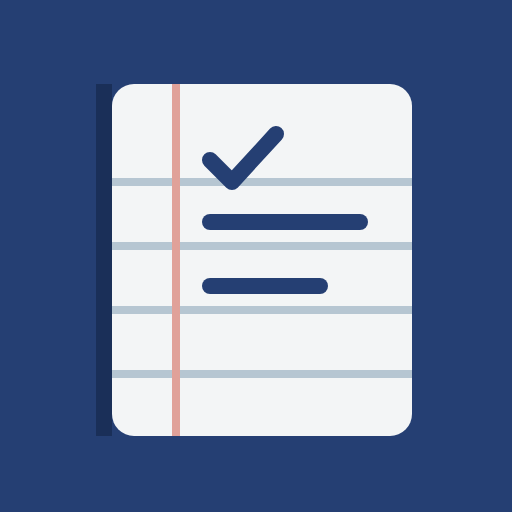
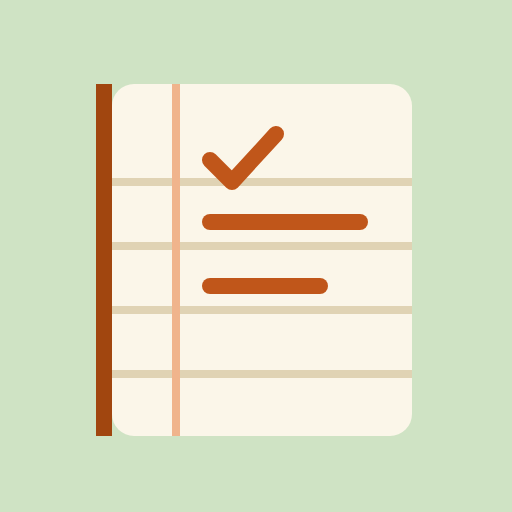
記事簿改為淺綠＋橘色基調、記事欄位米白色，固定淺色模式

diff --git a/memo/index.html b/memo/index.html
@@ -5,8 +5,8 @@
 <meta name="viewport" content="width=device-width, initial-scale=1.0, viewport-fit=cover">
 <title>記事簿</title>
 <meta name="robots" content="noindex">
-<meta name="theme-color" content="#f3f5f6" media="(prefers-color-scheme: light)">
-<meta name="theme-color" content="#12151b" media="(prefers-color-scheme: dark)">
+<meta name="theme-color" content="#e6f0df">
+<meta name="color-scheme" content="light only">
 <meta name="apple-mobile-web-app-capable" content="yes">
 <meta name="mobile-web-app-capable" content="yes">
 <meta name="apple-mobile-web-app-title" content="記事簿">
@@ -19,27 +19,30 @@
 <link href="https://fonts.googleapis.com/css2?family=LXGW+WenKai+TC:wght@400;700&family=Noto+Sans+TC:wght@400;500;700&display=swap" rel="stylesheet">
 <style>
   :root {
-    --paper: #f3f5f6;
-    --paper-raised: #fbfcfc;
-    --rule: #cfdbe4;
-    --rule-strong: #b6c6d2;
-    --margin-line: #e0a199;
-    --ink: #1d2740;
-    --ink-soft: #4b566c;
-    --ink-faint: #616c80;
-    --ink-done: #7c8597;
-    --accent: #253f73;
-    --accent-deep: #1a2f58;
-    --accent-wash: #e1e8f3;
-    --on-accent: #fbfcfc;
-    --overdue: #ad3428;
-    --overdue-wash: #f6e4e1;
-    --soon: #85570b;
-    --soon-wash: #f6ecd6;
-    --toast: #1d2740;
-    --on-toast: #f3f5f6;
-    --toast-action: #b9cbef;
-    --lift: 0 1px 2px rgba(29, 39, 64, 0.05), 0 10px 24px -14px rgba(29, 39, 64, 0.22);
+    --page: #e6f0df;
+    --paper: #fffdf8;
+    --paper-raised: #fbf6e9;
+    --rule: #e6dcc4;
+    --rule-strong: #d3c7aa;
+    --margin-line: #f0b48c;
+    --ink: #2a3326;
+    --ink-soft: #505b4a;
+    --ink-faint: #646d5c;
+    --ink-done: #8b917f;
+    --accent: #c0561a;
+    --accent-deep: #a1460f;
+    --accent-wash: #fbe6d4;
+    --on-accent: #fffdf8;
+    --green: #3f6b3a;
+    --green-wash: #e2eedb;
+    --overdue: #b3261e;
+    --overdue-wash: #f8e1dd;
+    --soon: #9a430c;
+    --soon-wash: #fde3cc;
+    --toast: #2f4a2c;
+    --on-toast: #f6f9f3;
+    --toast-action: #ffc89e;
+    --lift: 0 1px 2px rgba(42, 51, 38, 0.05), 0 10px 24px -14px rgba(42, 51, 38, 0.22);
 
     --hand: "LXGW WenKai TC", "Noto Sans TC", system-ui, sans-serif;
     --sans: "Noto Sans TC", system-ui, -apple-system, sans-serif;
@@ -50,40 +53,13 @@
     color-scheme: light;
   }
 
-  @media (prefers-color-scheme: dark) {
-    :root {
-      --paper: #12151b;
-      --paper-raised: #1a1e26;
-      --rule: #252c38;
-      --rule-strong: #343d4c;
-      --margin-line: #6e3a34;
-      --ink: #e2e7ef;
-      --ink-soft: #b0b9c8;
-      --ink-faint: #8f99aa;
-      --ink-done: #7f8999;
-      --accent: #a9bfe8;
-      --accent-deep: #c4d4f1;
-      --accent-wash: #1f2a40;
-      --on-accent: #12151b;
-      --overdue: #f19285;
-      --overdue-wash: #3a1f1c;
-      --soon: #e4bb6b;
-      --soon-wash: #33291a;
-      --toast: #e2e7ef;
-      --on-toast: #12151b;
-      --toast-action: #253f73;
-      --lift: 0 1px 2px rgba(0, 0, 0, 0.3), 0 12px 28px -14px rgba(0, 0, 0, 0.6);
-      color-scheme: dark;
-    }
-  }
-
   *, *::before, *::after { box-sizing: border-box; }
-  ::selection { background: var(--accent-wash); color: var(--ink); }
+  ::selection { background: var(--soon-wash); color: var(--ink); }
 
   html { -webkit-text-size-adjust: 100%; }
   body {
     margin: 0;
-    background: var(--paper);
+    background: var(--page);
     color: var(--ink);
     font-family: var(--sans);
     font-size: 15px;
@@ -291,12 +267,21 @@
   .hint:empty { display: none; }
 
   /* ---------- Ledger ---------- */
+  .sheet {
+    margin-top: 20px;
+    padding: 14px 0 18px;
+    border: 1px solid var(--rule);
+    border-radius: 14px;
+    background: var(--paper-raised);
+    box-shadow: var(--lift);
+    overflow: hidden;
+  }
   .ledger-head {
     display: flex;
     align-items: baseline;
     justify-content: space-between;
-    margin: 30px 0 4px;
-    padding-left: calc(var(--margin-w) + 12px);
+    margin: 0 0 4px;
+    padding: 0 16px 0 calc(var(--margin-w) + 12px);
     color: var(--ink-faint);
     font-size: 12px;
   }
@@ -374,8 +359,8 @@
     font-size: 12px;
     font-weight: 700;
     line-height: 20px;
-    background: var(--accent-wash);
-    color: var(--accent);
+    background: var(--green-wash);
+    color: var(--green);
   }
   .entry.is-overdue .due-rel { background: var(--overdue-wash); color: var(--overdue); }
   .entry.is-overdue .due-date { color: var(--overdue); }
@@ -430,7 +415,7 @@
   }
 
   /* ---------- Editor (inline) ---------- */
-  .entry.is-editing { display: block; padding: 6px 0 14px; background: none; }
+  .entry.is-editing { display: block; padding: 6px 10px 14px; background: none; }
   .editor {
     margin: 0;
     padding: 14px;
@@ -479,7 +464,8 @@
   .editor .primary-btn { width: auto; min-height: 44px; }
 
   /* ---------- Done drawer ---------- */
-  .done-wrap { margin-top: 26px; }
+  .done-wrap { margin-top: 14px; }
+  .done-foot { padding-right: 12px; }
   .done-toggle {
     display: flex;
     align-items: center;
@@ -798,6 +784,7 @@ function startNotebook(store, { uid, onSignOut } = {}) {
       <p class="hint" id="composerHint" aria-live="polite"></p>
     </form>
 
+    <section class="sheet">
     <div class="ledger-head"><h2 id="ledgerTitle">待辦，依新增先後</h2><span id="ledgerCount"></span></div>
     <ol class="ledger" id="ledger" aria-labelledby="ledgerTitle"></ol>
 
@@ -809,6 +796,7 @@ function startNotebook(store, { uid, onSignOut } = {}) {
         <ol class="ledger done-list" id="doneList"></ol>
         <div class="done-foot"><button class="text-btn danger" type="button" id="clearDone">清除全部已完成</button></div>
       </div>
+    </section>
     </section>`;
 
   const $ = id => document.getElementById(id);

diff --git a/memo/DESIGN.md b/memo/DESIGN.md
@@ -1,12 +1,14 @@
 # Design System: 記事簿（memo/）
 
-**North Star：隨身橫線手帳。** 這頁不是 App 待辦清單，而是一本口袋手帳：冷白紙、淡藍橫線、左側朱紅邊線隔出日期欄，事由像用藍黑墨水寫在線上。
+**North Star：隨身橫線手帳。** 這頁不是 App 待辦清單，而是一本口袋手帳：淺綠的桌面上放著米白的手帳紙，淡卡其橫線、左側橘色邊線隔出日期欄，事由像用墨水寫在線上。只有淺色，不隨系統切換深色。
 
-## Colors（`memo/index.html` 的 `:root`，深色模式同名覆寫）
-- 紙 `--paper #f3f5f6`、浮起紙 `--paper-raised #fbfcfc`（新增欄、編輯欄）
-- 橫線 `--rule #cfdbe4`、邊線 `--margin-line #e0a199`
-- 藍黑墨水 `--ink #1d2740`／`--ink-soft`／`--ink-faint`；主要操作 `--accent #253f73`
-- **一色一義：** 朱紅 `--overdue` 只代表逾期；赭黃 `--soon` 只代表今天／明天到期；墨藍淡底代表一週內。
+## Colors（`memo/index.html` 的 `:root`）
+- 桌面淺綠 `--page #e6f0df`：整頁底色
+- 米白手帳紙 `--paper-raised #fbf6e9`：新增欄、記事清單、編輯欄；輸入框 `--paper #fffdf8`
+- 橫線 `--rule #e6dcc4`、邊線 `--margin-line #f0b48c`
+- 墨色 `--ink #2a3326`／`--ink-soft`／`--ink-faint`
+- 橘 `--accent #c0561a`：主要按鈕、選中的時限、完成勾選
+- **一色一義：** 紅 `--overdue` 只代表逾期；橘淡底 `--soon` 代表今天／明天到期；綠淡底 `--green` 代表一週內到期。
 
 ## Typography
 - 事由與標題：LXGW WenKai TC（霞鶩文楷，手寫感），18px，行高 = 行距 32px
